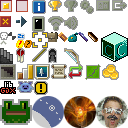
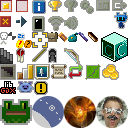
2.3: edited supporter scene

Changed region(s): [[0.875, 0.0938, 1.0, 0.25]]

diff --git a/core/src/main/java/com/shatteredpixel/shatteredpixeldungeon/scenes/SupporterScene.java b/core/src/main/java/com/shatteredpixel/shatteredpixeldungeon/scenes/SupporterScene.java
@@ -81,15 +81,11 @@ public class SupporterScene extends PixelScene {
 			@Override
 			protected void onClick() {
 				super.onClick();
-				String link = "https://www.patreon.com/ShatteredPixel";
-				//tracking codes, so that the website knows where this pageview came from
-				link += "?utm_source=shatteredpd";
-				link += "&utm_medium=android";
-				link += "&utm_campaign=supporter_page";
+				String link = "mailto:trashbox.bobylev@gmail.com";
 				DeviceCompat.openURI(link);
 			}
 		};
-		link.icon(Icons.get(Icons.GOLD));
+		link.icon(Icons.get(Icons.NEWS));
 		link.textColor(Window.TITLE_COLOR);
 		link.setSize(elementWidth, BTN_HEIGHT);
 		add(link);
@@ -125,10 +121,8 @@ public class SupporterScene extends PixelScene {
 
 			String message = Messages.get(this, "intro");
 			message += "\n\n" + Messages.get(this, "patreon_msg");
-			if (Messages.lang() != Languages.ENGLISH) {
 				message += "\n" + Messages.get(this, "patreon_english");
-			}
-			message += "\n\n- Evan";
+			message += "\n\n- TrashboxBobylev";
 
 			text = PixelScene.renderTextBlock(message, 6);
 			add(text);

diff --git a/core/src/main/java/com/shatteredpixel/shatteredpixeldungeon/scenes/TitleScene.java b/core/src/main/java/com/shatteredpixel/shatteredpixeldungeon/scenes/TitleScene.java
@@ -289,13 +289,13 @@ public class TitleScene extends PixelScene {
 						if (index == 0) {
 							Updates.launchUpdate(Updates.updateData());
 						} else if (index == 1){
-							ChangesScene.changesSelected = 0;
+							ChangesScene.changesSelected = 4;
 							ShatteredPixelDungeon.switchNoFade( ChangesScene.class );
 						}
 					}
 				});
 			} else {
-				ChangesScene.changesSelected = 0;
+				ChangesScene.changesSelected = 4;
 				ShatteredPixelDungeon.switchNoFade( ChangesScene.class );
 			}
 		}
@@ -336,7 +336,7 @@ public class TitleScene extends PixelScene {
 
 		public SupportButton( Chrome.Type type, String label ){
 			super(type, label);
-			icon(Icons.get(Icons.GOLD));
+			icon(Icons.get(Icons.INFO));
 			textColor(Window.TITLE_COLOR);
 		}
 

diff --git a/core/src/main/java/com/shatteredpixel/shatteredpixeldungeon/ui/Icons.java b/core/src/main/java/com/shatteredpixel/shatteredpixeldungeon/ui/Icons.java
@@ -243,7 +243,7 @@ public enum Icons {
 			icon.scale.set(PixelScene.align(0.49f));
 			break;
             case BOBBY_IS_VERY_STRANGE_PERSON_BECAUSE_HE_TRIES_TO_REFERENCE_HIMSELF_IN_NEW_SHATTERED_CREDITS_SCREEN:
-                icon.frame( icon.texture.uvRect( 84, 74, 113, 92 ) );
+                icon.frame( icon.texture.uvRect( 113, 11, 126, 28 ) );
                 break;
 
 		}
